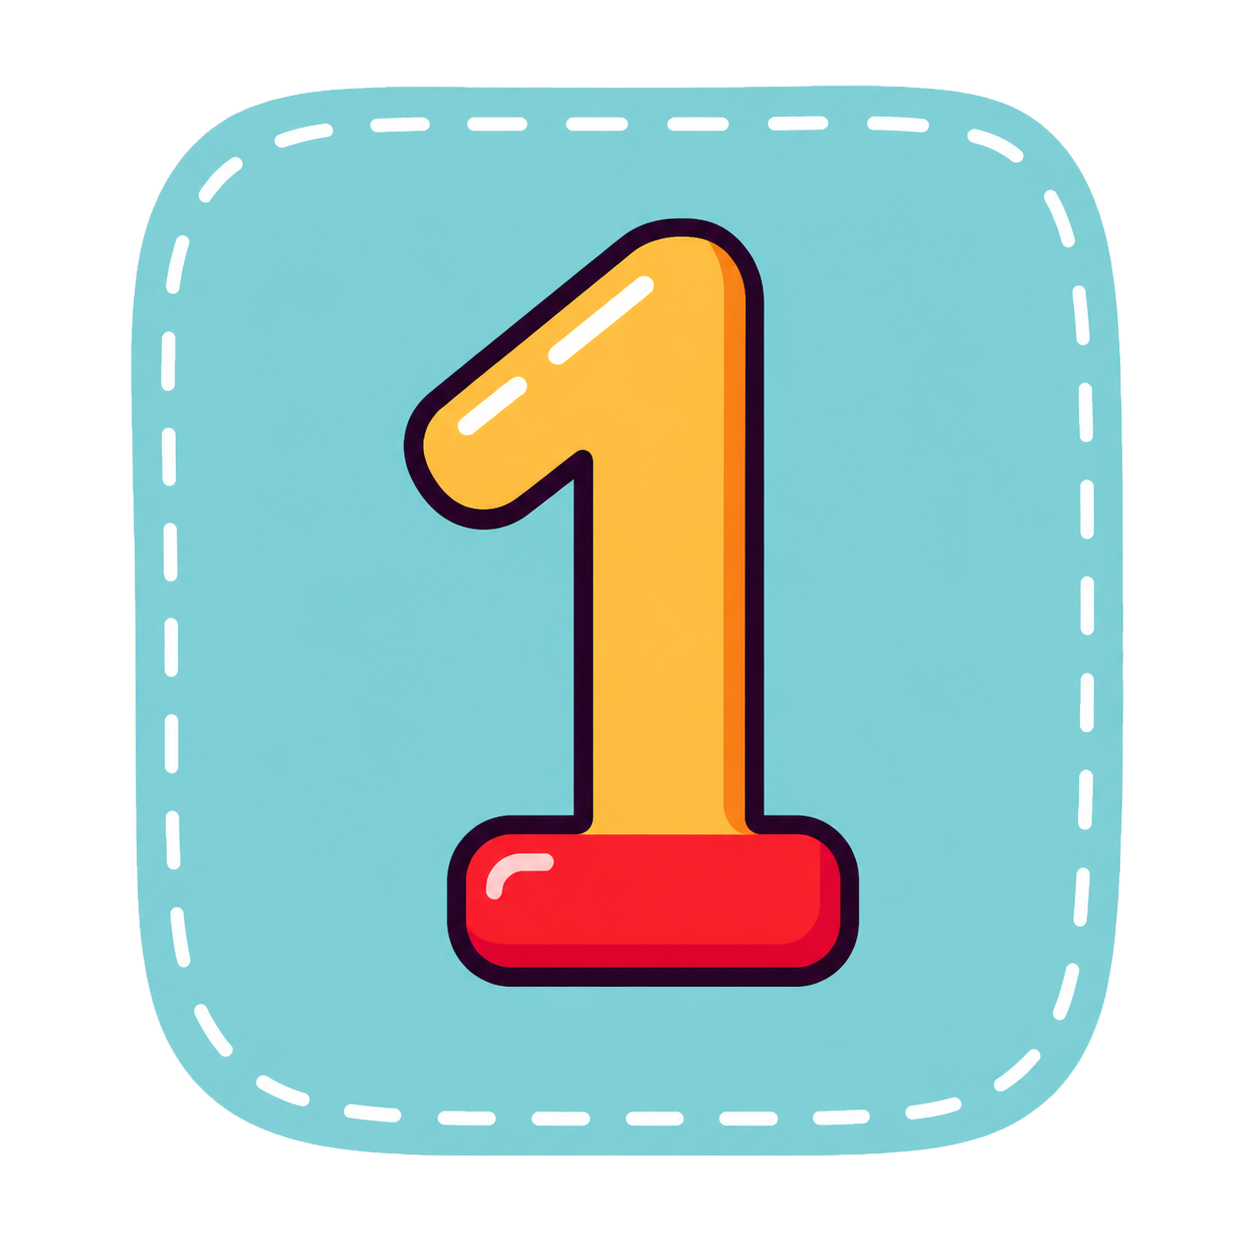
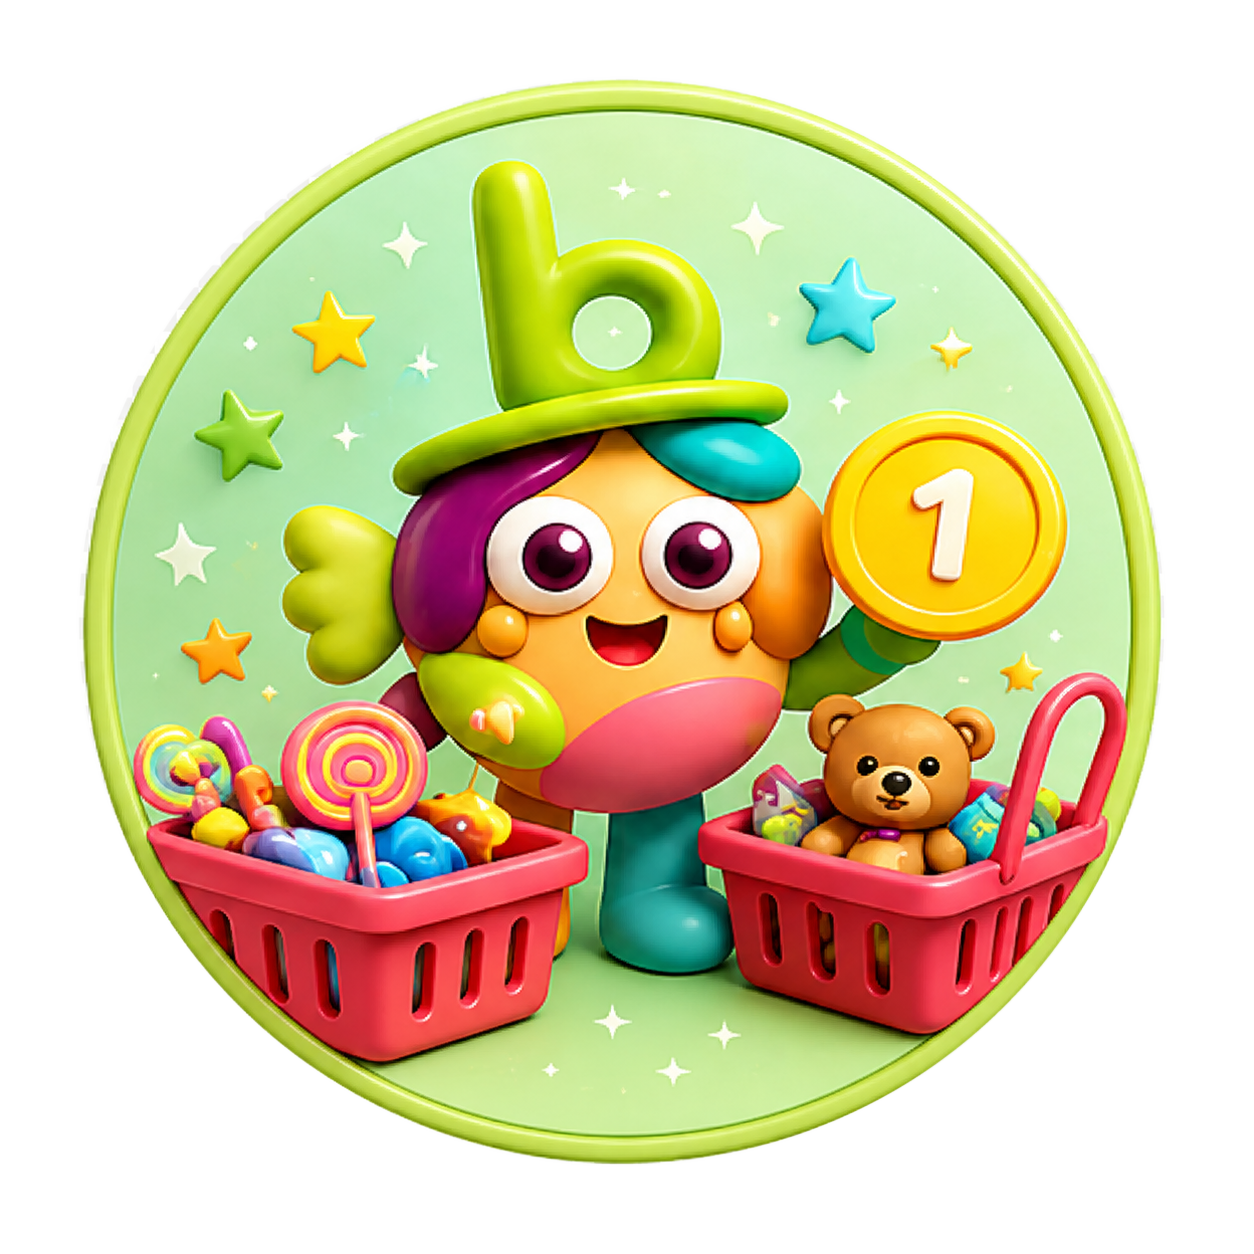
.

diff --git a/packages/Webkul/Installer/src/Database/Seeders/Product/ProductCategoriesTableSeeder.php b/packages/Webkul/Installer/src/Database/Seeders/Product/ProductCategoriesTableSeeder.php
@@ -20,15 +20,6 @@ class ProductCategoriesTableSeeder extends Seeder
 
     public function run()
     {
-        $slugs = [
-            '0-2' => '0-2.png',
-            '3-4' => '3-4.png',
-            '5-7' => '5-7.png',
-            '8-10' => '8-10.png',
-            '11-12' => '11-12.png',
-            '13+' => '13+.png',
-        ];
-
         $root = $this->categoryRepository->findOneByField('parent_id', null);
         if (! $root) {
             if (isset($this->command)) {
@@ -38,27 +29,60 @@ class ProductCategoriesTableSeeder extends Seeder
             return;
         }
 
-        $now = Carbon::now();
-
-        foreach ($slugs as $slug => $imageName) {
-            $existingTranslation = DB::table('category_translations')
-                ->where('slug', $slug)
-                ->where('locale', 'en')
+        // Delete existing age categories if any exist
+        $slugsToDelete = ['0-2', '3-4', '5-7', '8-10', '11-12', '13+', '11+'];
+        foreach ($slugsToDelete as $slugToDelete) {
+            $translation = DB::table('category_translations')
+                ->where('slug', $slugToDelete)
                 ->first();
 
-            if ($existingTranslation) {
-                continue;
+            if ($translation) {
+                try {
+                    $this->categoryRepository->delete($translation->category_id);
+                } catch (\Exception $e) {
+                    // Ignore exceptions during cascade deletion
+                }
             }
+        }
 
+        $categoriesData = [
+            '0-2' => [
+                'image'   => '0-2.png',
+                'name_en' => '0-2',
+                'name_ar' => '2-0',
+            ],
+            '3-4' => [
+                'image'   => '3-4.png',
+                'name_en' => '3-4',
+                'name_ar' => '4-3',
+            ],
+            '5-7' => [
+                'image'   => '5-7.png',
+                'name_en' => '5-7',
+                'name_ar' => '7-5',
+            ],
+            '8-10' => [
+                'image'   => '8-10.png',
+                'name_en' => '8-10',
+                'name_ar' => '10-8',
+            ],
+            '11+' => [
+                'image'   => '11+.png',
+                'name_en' => '11+',
+                'name_ar' => '+11',
+            ],
+        ];
+
+        foreach ($categoriesData as $slug => $data) {
             $category = $this->categoryRepository->create([
-                'status' => 1,
-                'position' => 1,
+                'status'       => 1,
+                'position'     => 1,
                 'display_mode' => 'products_and_description',
-                'parent_id' => $root->id,
+                'parent_id'    => $root->id,
             ]);
 
             // Copy category image if exists
-            $imagePath = __DIR__ . '/Data/category-images/' . $imageName;
+            $imagePath = __DIR__ . '/Data/category-images/' . $data['image'];
             if (file_exists($imagePath)) {
                 $storedPath = Storage::putFile('category/' . $category->id, new File($imagePath));
                 $category->logo_path = $storedPath;
@@ -67,12 +91,20 @@ class ProductCategoriesTableSeeder extends Seeder
 
             DB::table('category_translations')->updateOrInsert(
                 ['category_id' => $category->id, 'locale' => 'en'],
-                ['name' => $slug, 'slug' => $slug, 'description' => $slug]
+                [
+                    'name'        => $data['name_en'],
+                    'slug'        => $slug,
+                    'description' => $data['name_en'],
+                ]
             );
 
             DB::table('category_translations')->updateOrInsert(
                 ['category_id' => $category->id, 'locale' => 'ar'],
-                ['name' => $slug, 'slug' => $slug, 'description' => $slug]
+                [
+                    'name'        => $data['name_ar'],
+                    'slug'        => $slug,
+                    'description' => $data['name_ar'],
+                ]
             );
         }
     }

diff --git a/packages/Webkul/Installer/src/Database/Seeders/Product/ProductGroupsTableSeeder.php b/packages/Webkul/Installer/src/Database/Seeders/Product/ProductGroupsTableSeeder.php
@@ -26,13 +26,13 @@ class ProductGroupsTableSeeder extends Seeder
     public function run()
     {
         $groups = [
-            ['ar' => 'العاب', 'en' => 'Toys', 'file' => 'toys.png'],
-            ['ar' => 'وصل حديثا', 'en' => 'New Arrivals', 'file' => 'new-arrivals.png'],
-            ['ar' => 'تعليمية', 'en' => 'Educational', 'file' => 'educational.png'],
-            ['ar' => 'هدايا', 'en' => 'Gifts', 'file' => 'gifts.png'],
+            ['ar' => 'ألعاب أولاد', 'en' => 'Boys Toys', 'file' => 'boys.png'],
+            ['ar' => 'ألعاب ذكية', 'en' => 'Smart Toys', 'file' => 'smart.png'],
+            ['ar' => 'ألعاب تعليمية', 'en' => 'Educational Toys', 'file' => 'educational.png'],
+            ['ar' => 'ألعاب مواليد', 'en' => 'Toddlers Toys', 'file' => 'toddlers.png'],
             ['ar' => 'اقل من 1 دينار', 'en' => 'Under 1 Dinar', 'file' => 'under-1-dinar.png'],
-            ['ar' => 'ترفيه', 'en' => 'Entertainment', 'file' => 'entertainment.png'],
-            ['ar' => 'رياضة', 'en' => 'Sports', 'file' => 'sports.png'],
+            ['ar' => 'ألعاب بنات', 'en' => 'Girls Toys', 'file' => 'girls.png'],
+            ['ar' => 'ألعاب خارجية', 'en' => 'Outdoor Toys', 'file' => 'outdoor.png'],
             ['ar' => 'عروض', 'en' => 'Offers', 'file' => 'offers.png'],
         ];
 
@@ -43,6 +43,16 @@ class ProductGroupsTableSeeder extends Seeder
             }
 
             return;
+        }
+
+        // Delete existing options of the group attribute to start fresh
+        $options = $this->attributeOptionRepository->findByField('attribute_id', $groupAttr->id);
+        foreach ($options as $option) {
+            try {
+                $this->attributeOptionRepository->delete($option->id);
+            } catch (\Exception $e) {
+                // Ignore exception
+            }
         }
 
         $now = Carbon::now();

diff --git a/packages/Webkul/Installer/src/Database/Seeders/Product/ProductsTableSeeder.php b/packages/Webkul/Installer/src/Database/Seeders/Product/ProductsTableSeeder.php
@@ -60,6 +60,19 @@ class ProductsTableSeeder extends Seeder
             $this->command->info("Starting Import Process from new Excel file...");
         }
 
+        // Delete all existing products to start completely fresh
+        if (isset($this->command)) {
+            $this->command->info("Deleting all existing products to start completely fresh...");
+        }
+        $products = $this->productRepository->all();
+        foreach ($products as $product) {
+            try {
+                $this->productRepository->delete($product->id);
+            } catch (\Exception $e) {
+                // Ignore
+            }
+        }
+
         // 1. Delete old files
         $oldFiles = [
             'First patch invoice with pictures.xlsx',